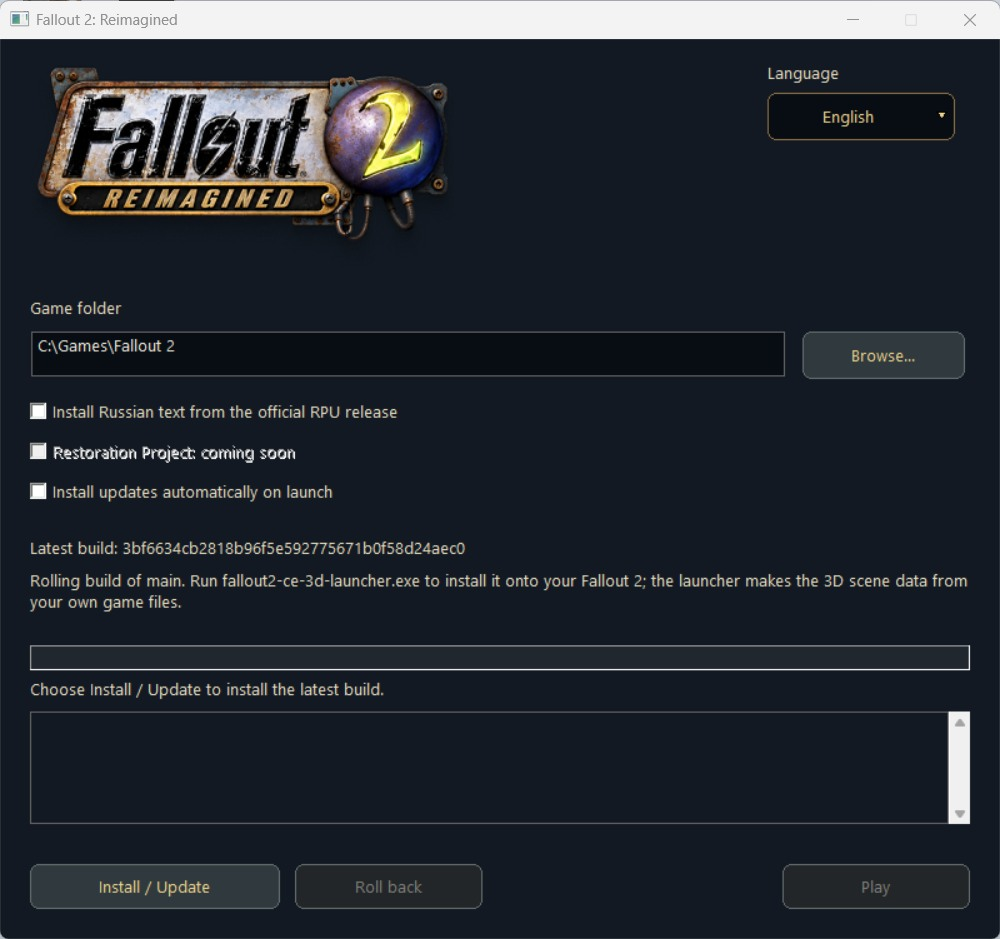
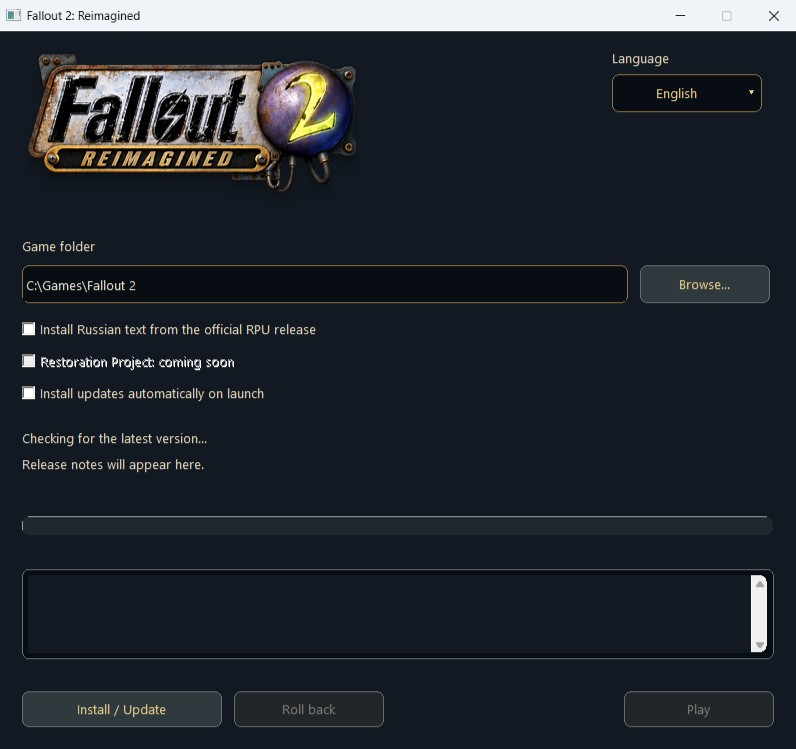
200: round installer log and refresh evidence

diff --git a/ce/src/launcher_ui.cc b/ce/src/launcher_ui.cc
@@ -493,9 +493,8 @@ void createControls(HWND window)
     g_font = CreateFontW(18, 0, 0, 0, FW_NORMAL, FALSE, FALSE, FALSE, DEFAULT_CHARSET,
         OUT_DEFAULT_PRECIS, CLIP_DEFAULT_PRECIS, CLEARTYPE_QUALITY, DEFAULT_PITCH | FF_DONTCARE, L"Segoe UI");
     createControl(window, L"STATIC", L"Game folder", SS_LEFT, 24, 206, 180, 25, ID_GAME_ROOT - 100);
-    createControl(window, L"EDIT", L"", ES_AUTOHSCROLL | WS_BORDER, 25, 234, 603, 36, ID_GAME_ROOT);
+    createControl(window, L"EDIT", L"", ES_AUTOHSCROLL, 25, 245, 603, 25, ID_GAME_ROOT);
     g_root = GetDlgItem(window, ID_GAME_ROOT);
-    SetWindowRgn(g_root, CreateRoundRectRgn(0, 0, 603, 36, 12, 12), TRUE);
     createControl(window, L"BUTTON", L"Browse...", BS_OWNERDRAW, 642, 234, 130, 38, ID_BROWSE);
     g_browse = GetDlgItem(window, ID_BROWSE);
     createControl(window, L"BUTTON", L"Install Russian text from the official RPU release",
@@ -515,14 +514,16 @@ void createControls(HWND window)
     g_notes = GetDlgItem(window, ID_NOTES);
     createControl(window, PROGRESS_CLASSW, L"", PBS_SMOOTH, 24, 485, 752, 20, ID_PROGRESS);
     g_progress = GetDlgItem(window, ID_PROGRESS);
+    SetWindowRgn(g_progress, CreateRoundRectRgn(0, 0, 752, 20, 12, 12), TRUE);
     SendMessageW(g_progress, PBM_SETRANGE32, 0, 100);
     SendMessageW(g_progress, PBM_SETBARCOLOR, 0, RGB(155, 180, 105));
     SendMessageW(g_progress, PBM_SETBKCOLOR, 0, RGB(32, 39, 47));
     createControl(window, L"STATIC", L"", SS_LEFT, 24, 511, 752, 22, ID_STATUS);
     g_status = GetDlgItem(window, ID_STATUS);
-    createControl(window, L"EDIT", L"", ES_MULTILINE | ES_AUTOVSCROLL | ES_READONLY | WS_VSCROLL | WS_BORDER,
-        24, 538, 752, 90, ID_LOG);
+    createControl(window, L"EDIT", L"", ES_MULTILINE | ES_AUTOVSCROLL | ES_READONLY | WS_VSCROLL,
+        30, 544, 740, 78, ID_LOG);
     g_log = GetDlgItem(window, ID_LOG);
+    SetWindowRgn(g_log, CreateRoundRectRgn(0, 0, 740, 78, 12, 12), TRUE);
     createControl(window, L"BUTTON", L"Install / Update", BS_OWNERDRAW, 24, 660, 200, 36, ID_INSTALL);
     g_install = GetDlgItem(window, ID_INSTALL);
     createControl(window, L"BUTTON", L"Roll back", BS_OWNERDRAW, 236, 660, 150, 36, ID_ROLLBACK);
@@ -574,6 +575,22 @@ LRESULT CALLBACK launcherWindowProc(HWND window, UINT message, WPARAM wParam, LP
         RECT client = {};
         GetClientRect(window, &client);
         FillRect(dc, &client, g_background);
+        HPEN fieldPen = CreatePen(PS_SOLID, 1, RGB(140, 112, 69));
+        HGDIOBJ oldFieldPen = SelectObject(dc, fieldPen);
+        HGDIOBJ oldFieldBrush = SelectObject(dc, g_editBackground);
+        RoundRect(dc, 24, 234, 630, 272, 12, 12);
+        SelectObject(dc, oldFieldBrush);
+        SelectObject(dc, oldFieldPen);
+        DeleteObject(fieldPen);
+        HPEN logPen = CreatePen(PS_SOLID, 1, RGB(100, 111, 111));
+        HBRUSH logBrush = CreateSolidBrush(RGB(8, 13, 19));
+        HGDIOBJ oldLogPen = SelectObject(dc, logPen);
+        HGDIOBJ oldLogBrush = SelectObject(dc, logBrush);
+        RoundRect(dc, 24, 538, 776, 628, 12, 12);
+        SelectObject(dc, oldLogBrush);
+        SelectObject(dc, oldLogPen);
+        DeleteObject(logBrush);
+        DeleteObject(logPen);
         HPEN pen = CreatePen(PS_SOLID, 1, RGB(140, 112, 69));
         HGDIOBJ oldPen = SelectObject(dc, pen);
         HGDIOBJ oldBrush = SelectObject(dc, GetStockObject(HOLLOW_BRUSH));

diff --git a/tasks/200-installer-layout.md b/tasks/200-installer-layout.md
@@ -21,13 +21,14 @@ Refine the installer layout from the owner's 2026-11-05 screenshot.
 
 - Follow-up to completed task 199, split out because the owner gave a new direct visual correction after #285 merged.
 - Keep the existing installer behavior and bilingual layout.
-- Reference: `C:\Users\jiraf\AppData\Local\Temp\codex-clipboard-b6b0e12b-c37e-4b72-ab17-1b8b17b4377a.png`.
+- Reference: the owner's screenshot attached in the task conversation.
 
 ## Acceptance
 
 - The content has equal outer margins, with no outer inset frame.
 - The logo is smaller and closer to the game-folder path field.
 - Buttons and fields have 6 px corner radii.
+- The log panel and progress bar have 6 px corner radii.
 - Path text and language dropdown text are vertically centered.
 - Current build is shown in verified English and Russian screenshots.
 - Build and relevant tests pass.
@@ -39,6 +40,6 @@ Installer behavior, translation licensing, update and rollback flow.
 ## Log
 
 ### 2026-11-05 gpt
-Done: Removed the inset gold frame, balanced the outer spacing, reduced the logo and its gap to the path field, and rounded the buttons and fields to 6 px. Replaced the square native language combo with an owner-drawn rounded dropdown whose label is vertically centered. Added `--no-activate` for nonintrusive capture only; normal launcher activation is unchanged. Evidence is in `runs/200-installer-layout/`.
-Check: MSVC Release build via `tools/configure-build.ps1 Release` passed. Captured the current launcher in English and Russian from desktop pixels with a separate settings file and a placeholder game path; no installation was started. See `runs/200-installer-layout/capture.json` for the build hash, resolution, and capture details. Both JPEGs are under 1 MB.
-Next: CI for PR #290.
+Done: Removed the inset gold frame and rounded the path field, language button, buttons, log panel, and progress track. Reduced the logo and its gap to the path field, and centered the path and language labels. Added `--no-activate` for capture only; normal launcher activation is unchanged.
[1 lines of base64/hex data omitted]
+Next: Push the corrected log clipping and evidence, then run CI for PR #290.

diff --git a/runs/200-installer-layout/README.md b/runs/200-installer-layout/README.md
@@ -2,11 +2,11 @@
 
 Captured 2026-11-05 from the Release `fallout2-ce-3d-launcher.exe` on branch `task/200-installer-layout`.
 
[1 lines of base64/hex data omitted]
-- Screen: 1000 x 939 pixels, 125% Windows scaling.
-- Each JPEG is a desktop pixel capture of the current launcher window. The 10-pixel DWM resize-shadow edge was cropped from the left, right, and bottom.
-- English: `installer-en.jpg` (118,773 bytes)
-- Russian: `installer-ru.jpg` (121,941 bytes)
-- Sidecar: `capture.json` records process IDs, capture coordinates, build identity, and the display-only game path.
[1 lines of base64/hex data omitted]
+- Launcher window: 816 x 759 pixels; evidence crops the 10-pixel DWM edge from the left, right, and bottom.
+- Each JPEG is a fresh `PrintWindow` rendering of the current launcher window handle.
+- English: `installer-en.jpg` (67,876 bytes)
+- Russian: `installer-ru.jpg` (69,161 bytes)
+- Sidecar: `capture.json` records language, process ID, build identity, and capture method.
 
-A separate launcher process used `--no-activate` and a private settings file for each language. The displayed `C:\Games\Fallout 2` path is a placeholder; no install or update was started. The owner's game was not opened or modified.
+A separate launcher process used a private settings file for each language. The visible install path is a display-only placeholder; no install or update was started. The owner's game was not opened or modified.
